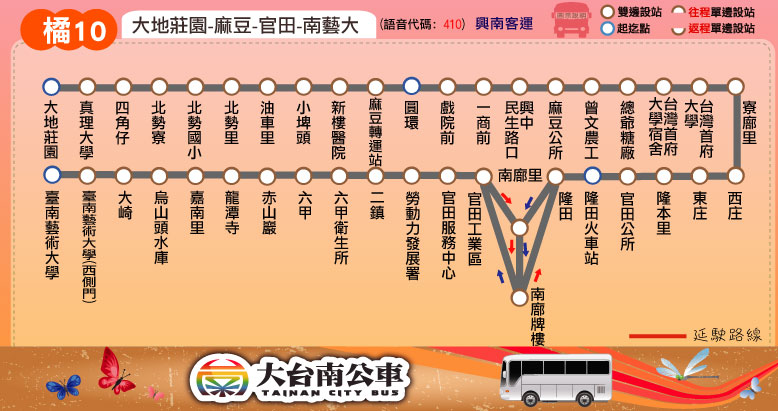
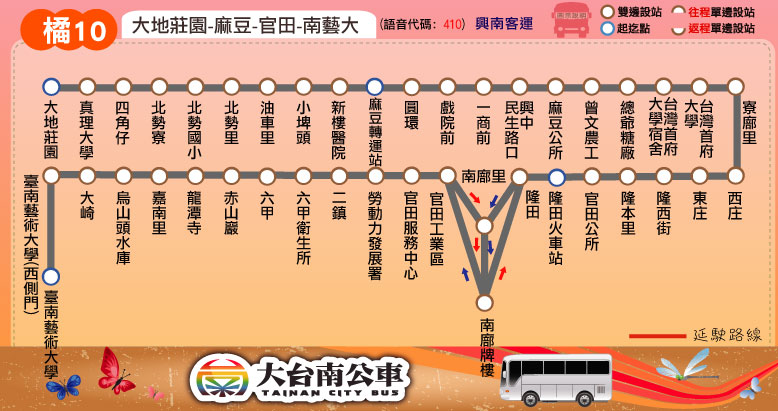
新增站點：橘10 (隆西街)

diff --git a/route/fare_and_time/red_3.js b/route/fare_and_time/red_3.js
@@ -38,6 +38,6 @@ red_3_fare = [
 // [time, start_stop, end_stop, other]
 red_3_main_stop_name = ["臺南公園<br />(公園路)","臺南<br />火車站","市立醫院<br />(崇明路)","臺南<br />航空站","奇美<br />博物館","保安<br />轉運站","大潭","高鐵<br />臺南站","歸仁公所","關廟國中","關廟<br />轉運站"];
 red_3_main_stop_time_consume = [0, 5, 20, 25, 30, 33, 45, 51, 75, 80, 85];
-red_3_important_stop = [0, 1, 3, 5, 8, 10]; // 臺南公園, 臺南火車站, 臺南航空站, 保安轉運站, 高鐵臺南站, 關廟
+red_3_important_stop = [0, 1, 3, 5, 7, 10]; // 臺南公園, 臺南火車站, 臺南航空站, 保安轉運站, 高鐵臺南站, 關廟
 red_3_time_go = [["06:05"],["07:10"],["08:05"],["10:05"],["12:05"],["14:05"],["16:05"],["17:05"],["18:05"],["19:05"]];
 red_3_time_return = [["05:45"],["07:30"],["08:40"],["10:40"],["12:35"],["14:40"],["16:35"],["17:40"],["18:40"],["19:40"]];

diff --git a/route/fare_and_time/red_2.js b/route/fare_and_time/red_2.js
@@ -3,7 +3,7 @@ red_2_interval_stop = [
 ["臺南站","新光三越新天地","小西門(大億麗緻)","西門、友愛街口","中正、西門路口","林百貨(中正路)","中山、民權路口",
 "臺南公園(公園路)","臺南火車站","東門圓環","東門教會","東門城","龍山寺","富強市場","東門路","虎尾寮","富農街口"], // 臺南
 ["崁腳","嘉南療養院","仁德交流道","仁德","土庫仔","中正路(仁德)"], // 仁德
-["崙仔尾","北保仔","後壁厝","三塊厝","鉅全公司","蔦松腳","田厝"], // 後壁厝
+["崙仔尾","北保仔","後壁厝","三塊厝(仁德)","鉅全公司","蔦松腳","田厝"], // 後壁厝
 ["上崙子"], // 上崙子
 ["社尾","六甲"], // 六甲
 ["歸南派出所","頂歸南","歸南","崁仔下","崁仔頭","歸仁公所","歸仁市場","歸仁","看東里","修元堂","歸仁交流道"], // 歸仁

diff --git a/route/fare_and_time/red_4.js b/route/fare_and_time/red_4.js
@@ -20,6 +20,6 @@ red_4_fare = [
 // [time, start_stop, end_stop, other]
 red_4_main_stop_name = ["臺南公園<br />(公園路)","臺南<br />火車站","巴克禮<br />公園","中華醫事<br />科技大學","後壁厝","保安<br />轉運站","奇美<br />博物館"];
 red_4_main_stop_time_consume = [0, 5, 17, 30, 35, 45, 50];
-red_4_important_stop = [0, 1, 5, 6]; // 臺南公園, 臺南火車站, 保安轉運站, 奇美博物館
+red_4_important_stop = [0, 1, 3, 5, 6]; // 臺南公園, 臺南火車站, 中華醫事科技大學, 保安轉運站, 奇美博物館
 red_4_time_go = [["07:25"],["09:35"],["10:35"],["11:25"],["12:25"],["13:55"],["14:45"],["15:45"],["16:15"],["18:35"],["19:20",['H']]];
 red_4_time_return = [["08:35"],["10:55"],["11:45"],["12:35"],["13:35"],["15:05"],["15:55"],["16:55"],["17:25"],["18:30",['H']],["19:35"]];

diff --git a/route/fare_and_time/orange_10.js b/route/fare_and_time/orange_10.js
@@ -5,7 +5,7 @@ orange_10_interval_stop = [
 ["油車里","小埤頭","新樓醫院","麻豆轉運站","圓環","戲院前","一商前","興中民生路口","麻豆公所","曾文農工","總爺糖廠","臺灣首府大學宿舍","臺灣首府大學"], // 麻豆
 ["寮廍里"], // 寮廍里
 ["西庄","東庄"], // 西庄
-["隆本里","官田公所","隆田火車站","隆田","南廍里","南廍牌樓"], // 隆田
+["隆西街","隆本里","官田公所","隆田火車站","隆田","南廍里","南廍牌樓"], // 隆田
 ["官田工業區","官田服務中心","勞動力發展署","二鎮"], // 二鎮
 ["六甲衛生所","六甲"], // 六甲
 ["赤山巖","龍潭寺","嘉南里"], // 嘉南里
